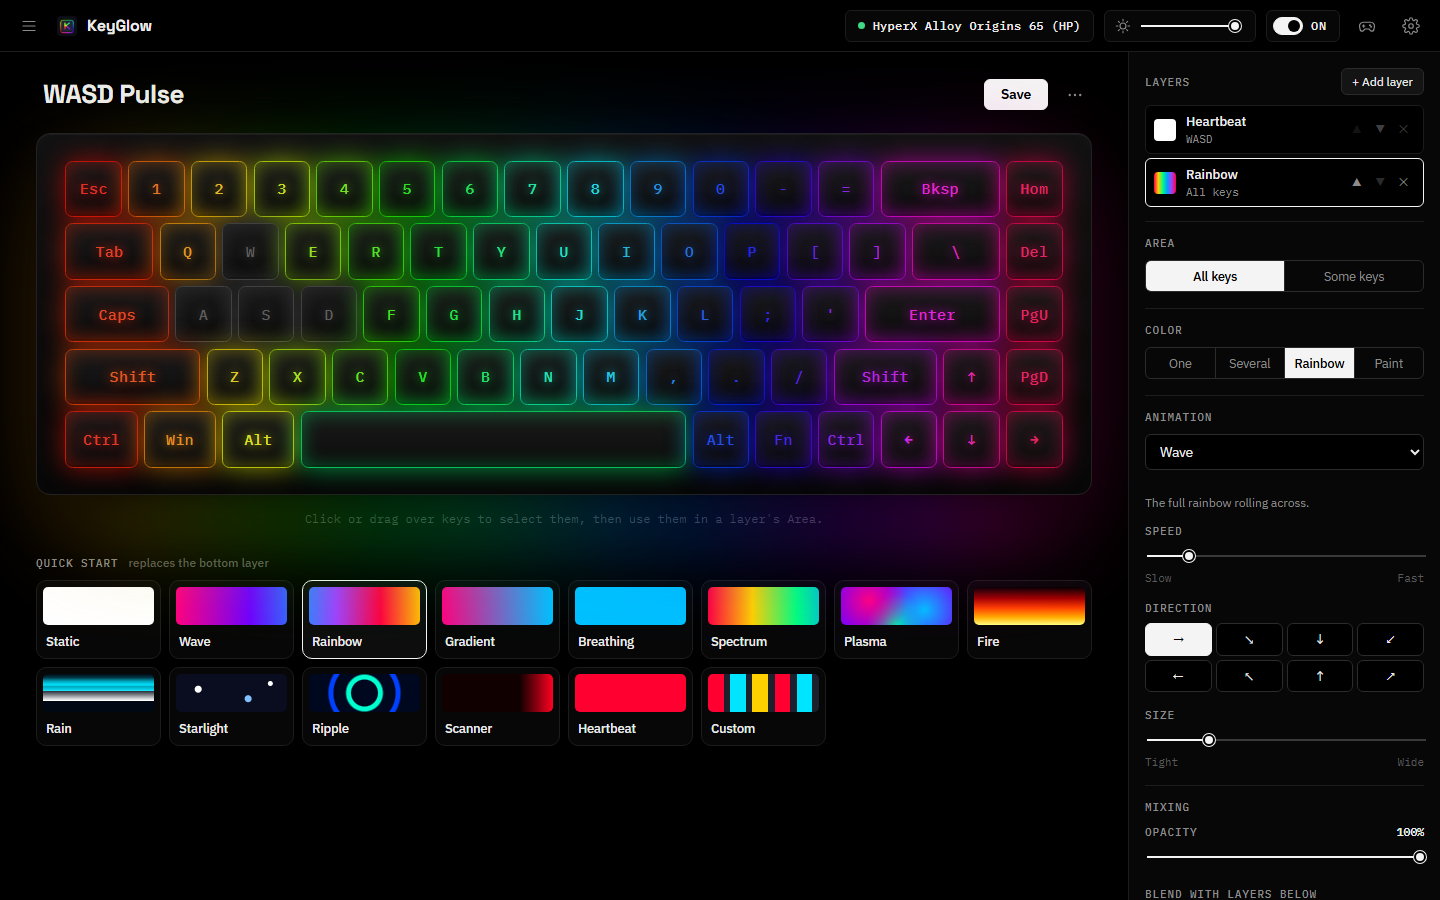
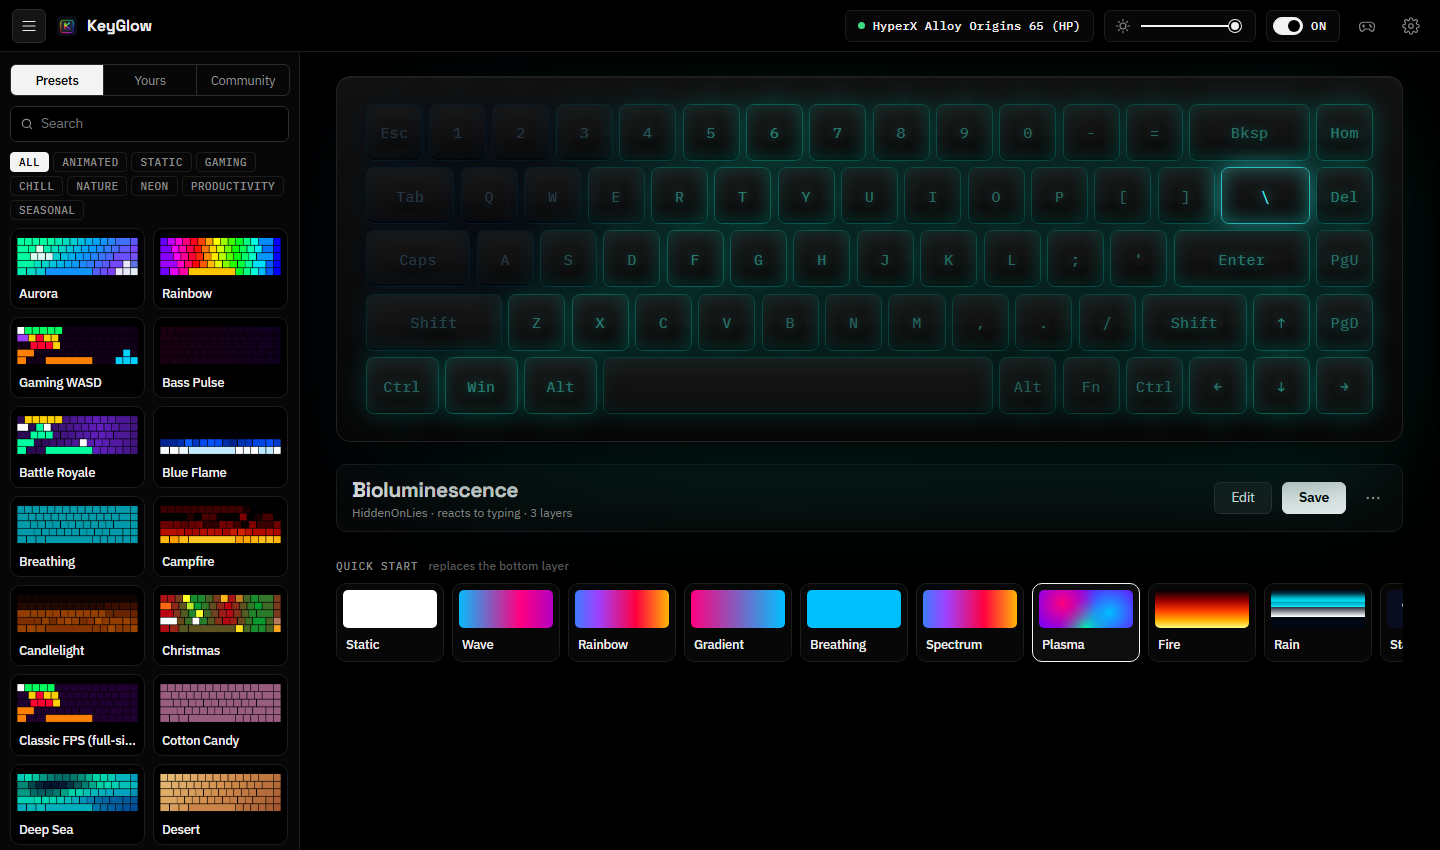
Version 1.0.0
- README for 1.0: features grouped (pick a look, make your own, your
  keyboard), a privacy and resources section, updated roadmap and a new
  screenshot of the current interface
- A new window opens on the profile the keyboard is playing (/api/active)
  instead of the last saved one, so opening it never changes the lights
- The profile line shows the author when its gallery isn't loaded yet

diff --git a/keyglow/app/static/app.js b/keyglow/app/static/app.js
@@ -562,8 +562,10 @@ function renderHead() {
 function profileMeta() {
   const all = [...S.lib.presets, ...S.lib.mine, ...(S.lib.community?.profiles || [])];
   const e = all.find((x) => x.id === S.sourceId);
-  const kind = !e ? "New profile" : e.kind === "preset" ? "Preset" : e.kind === "mine" ? "Your profile" : "Community";
-  const author = e?.kind === "community" && e.author ? e.author.split(" · ")[0] : null;
+  // not found (e.g. a community profile before the gallery has loaded): its author says enough
+  const kind = !e ? (S.profile.author ? null : "New profile")
+    : e.kind === "preset" ? "Preset" : e.kind === "mine" ? "Your profile" : "Community";
+  const author = (!e || e.kind === "community") && S.profile.author ? S.profile.author.split(" · ")[0] : null;
   const n = S.profile.layers.length;
   return [kind, author, hasReactive(S.profile) ? "reacts to typing" : null, `${n} layer${n > 1 ? "s" : ""}`]
     .filter(Boolean).join(" · ");
@@ -2119,9 +2121,12 @@ async function init() {
   await Promise.all([loadLibrary(), pollStatus()]);
   toggleLibrary(store.get("keyglow.libraryOpen", true));
   setEditing(store.get("keyglow.editing", false));
-  const start = S.settings.last_profile || S.lib.presets[0]?.data;
+  // a new window shows what the keyboard is playing now, so opening it never changes the lights
+  const active = (await api("/api/active").catch(() => ({}))).profile;
+  const start = active || S.settings.last_profile || S.lib.presets[0]?.data;
+  const all = [...S.lib.presets, ...S.lib.mine];
   loadProfile(start || { name: "My profile", layers: [newLayer("solid")] }, {
-    sourceId: S.lib.presets.find((p) => p.data?.name === start?.name)?.id ?? null,
+    sourceId: all.find((p) => p.data?.name === start?.name)?.id ?? null,
   });
   setInterval(pollStatus, 2000);
   checkUpdate();

diff --git a/tests/test_app.py b/tests/test_app.py
@@ -94,3 +94,8 @@ def test_ajustes_persisten(server):
     call(base, "/api/settings", {"brightness": 0.5, "desconocido": 1})
     saved = json.loads((tmp / "appdata" / "KeyGlow" / "settings.json").read_text(encoding="utf-8"))
     assert saved["brightness"] == 0.5 and "desconocido" not in saved
+
+
+def test_a_new_window_opens_on_the_active_profile(server):
+    base, _ = server
+    assert call(base, "/api/active")["profile"] is None              # nada en marcha todavía

diff --git a/keyglow/app/server.py b/keyglow/app/server.py
@@ -158,6 +158,8 @@ class Handler(BaseHTTPRequestHandler):
         try:
             if url.path == "/api/meta":
                 return self._json(app.meta())
+            if url.path == "/api/active":
+                return self._json({"profile": app.engine.active_profile})
             if url.path == "/api/status":
                 app.engine.maybe_reconnect()
                 return self._json({**app.engine.status(), "app": "keyglow"})

diff --git a/keyglow/app/engine.py b/keyglow/app/engine.py
@@ -449,6 +449,11 @@ class LightEngine:
                 self._connect()
             return self._kb.describe() if self._kb is not None else None
 
+    @property
+    def active_profile(self) -> dict | None:
+        """El perfil que se está pintando ahora (sin contar juegos ni vistas previas)."""
+        return self._profile
+
     def status(self) -> dict:
         with self._lock:
             return {

diff --git a/keyglow/__init__.py b/keyglow/__init__.py
@@ -1,3 +1,3 @@
 """KeyGlow: RGB keyboard lighting with profiles that move between keyboard models."""
 
-__version__ = "0.4.0"
+__version__ = "1.0.0"

diff --git a/README.md b/README.md
@@ -14,9 +14,10 @@ yours, and the other way round. Windows, powered by [OpenRGB](https://openrgb.or
 
 ![KeyGlow playing several presets](docs/images/demo.gif)
 
-> **Early preview.** KeyGlow works day to day on a **HyperX Alloy Origins 65** on Windows,
-> but it hasn't been tested on other keyboards yet and there is still plenty to do.
-> See [Status and roadmap](#status-and-roadmap). Feedback and issues are welcome.
+> **Version 1.0.** KeyGlow is used every day on a **HyperX Alloy Origins 65** on Windows 11.
+> Other keyboards work through OpenRGB but haven't been tested on real hardware yet, so a
+> [keyboard report](https://github.com/HiddenOnLies/KeyGlow/issues/new?template=keyboard_report.yml)
+> helps a lot.
 
 ## Why another RGB app?
 
@@ -53,31 +54,59 @@ Double-click `KeyGlow.exe`. The interface opens in its own window and an icon ap
 system tray with *Open KeyGlow*, *Lights off* and *Quit*. The lights keep running when you
 close the window.
 
-- **Quick start effects**: Static, Wave, Rainbow, Gradient, Breathing, Spectrum, Plasma, Fire,
-  Rain, Starlight, Ripple, Scanner, Heartbeat, Swirl, Comet, Bounce, Glitch and Custom (paint keys
-  with the mouse).
-- **Layer editor**: each layer is an *Area* (all or some keys) + a *Color* (one, several,
-  rainbow or hand-painted) + an *Animation*, with opacity and blend modes.
-- **Music**: spectrum bars, a bass pulse or a volume meter that follow what's playing on the PC
-  (it only listens while a profile uses it).
-- **On key press**: light up the key you press, a ripple or a burst from it, its row, or its row
-  and column. It uses a Windows
-  keyboard hook only while an active profile needs it, and only keeps which key was pressed and
-  when, in memory, for a few seconds.
+**Pick a look**
+
 - **Profiles**, always on the left: built-in presets, your own (`Documents\KeyGlow\Perfiles`)
-  and the [community gallery](https://github.com/HiddenOnLies/KeyGlow-profiles), which the app
-  keeps up to date by itself (add yours!). Hover a profile to preview it on the keyboard; click
-  to use it. *Edit* opens the layer editor.
-- **Shortcut lights**: hold Ctrl, Alt or Win and the keys of their shortcuts light up, for
-  Windows and apps like VS Code, browsers or Photoshop (off in games).
+  and the [community gallery](https://github.com/HiddenOnLies/KeyGlow-profiles), which KeyGlow
+  keeps up to date by itself. **Hover a profile to preview it** on the keyboard; click to use it.
+- **Quick start effects**: Static, Wave, Rainbow, Gradient, Breathing, Spectrum, Plasma, Fire,
+  Rain, Starlight, Ripple, Scanner, Heartbeat, Swirl, Comet, Bounce, Glitch, Music and Custom
+  (paint keys with the mouse).
 - **Game profiles** (controller icon): one profile per game while it is in focus, plus optional
   recommended profiles for ~40 popular games.
-- **Import / export** (⋯): KeyGlow and OpenRGB profiles, key color maps (OpenRGB, web, QMK names)
+
+**Make your own** (*Edit*)
+
+- **Layers**: each layer is an *Area* (all or some keys) + a *Color* (one, several, rainbow or
+  hand-painted) + an *Animation*, with opacity and blend modes.
+- **On key press**: light up the key you press, a ripple or a burst from it, its row, or its row
+  and column.
+- **Music**: spectrum bars, a bass pulse or a volume meter that follow what's playing on the PC.
+- **Shortcut lights**: hold Ctrl, Alt or Win (or combinations like Ctrl+Alt) and the rest of the
+  keyboard dims while the keys of their shortcuts light up, for Windows and apps like VS Code,
+  browsers, File Explorer, Photoshop or Discord. Each profile picks the effect (solid, pulse,
+  blink, sparkle, gradient, wave, rainbow or its own colors), colors, speed, dimming and how long
+  to hold the key. Off in games.
+- **Share to community gallery** (*⋯*): KeyGlow checks your profile and opens GitHub with it
+  ready to send.
+
+**Your keyboard**
+
+- **Any keyboard OpenRGB supports**: the layout is detected automatically, with exact layouts for
+  some models from the [KeyGlow workshop](https://github.com/HiddenOnLies/KeyGlow-layouts) and 9
+  standard layouts (ANSI/ISO, 60% to full size). See [compatibility](docs/compatibility.md).
+- **Layout editor** (*Settings → Edit this layout*): drag keys into place, resize them, add the
+  ones that are missing, and save it as your keyboard's exact layout (or export it for the workshop).
+- **Caps Lock light**: OpenRGB hides the keyboard's own Caps Lock highlight, so KeyGlow lights the
+  key while Caps Lock is on, on keyboards without an indicator of their own.
+- **Import / export** (*⋯*): KeyGlow and OpenRGB profiles, key color maps (OpenRGB, web, QMK names)
   and CSV. Drag a file onto the window to import it.
 - **Save to keyboard memory** on keyboards that support it, so no software has to stay open
   ([which ones](docs/compatibility.md#saving-to-the-keyboards-memory)).
-- **Any keyboard**: the layout comes from OpenRGB automatically; 9 standard layouts (ANSI/ISO,
-  60% to full size) are built in. See [compatibility](docs/compatibility.md).
+
+## Privacy and resources
+
+KeyGlow is made to run in the background all day, so it stays light (about 1% of one CPU core and
+60 MB of memory on the HyperX) and only does what a profile needs:
+
+- **Key presses** are read (with a Windows keyboard hook) only while the profile in use reacts to
+  typing, and only which key and when, in memory, for a few seconds. Shortcut lights don't use the
+  hook: they only ask Windows whether Ctrl, Alt, Shift or Win are held.
+- **The PC's sound** is listened to only while the profile in use has a music layer, and only a few
+  volume levels are kept, in memory; nothing is recorded.
+- **Internet**: once a day KeyGlow downloads the community gallery, the workshop layouts and the
+  list of KeyGlow releases from GitHub (each can be turned off in *Settings*). Nothing about you or
+  your keyboard is sent. KeyGlow never updates itself; it tells you when there's a new version.
 
 ## Command line
 
@@ -117,14 +146,14 @@ powershell -ExecutionPolicy Bypass -File tools\build_exe.ps1   # builds dist\Key
 
 ## Status and roadmap
 
-- **Only tested on one keyboard** (HyperX Alloy Origins 65, Windows 11). The automatic layout
-  should handle other OpenRGB keyboards, but reports from real hardware are the most useful
-  contribution right now.
-- **Windows only** for the desktop app (tray icon, keyboard hook, game detection). The library
-  and CLI are plain Python.
+- **Tested on one keyboard** (HyperX Alloy Origins 65, Windows 11). Reports from other keyboards
+  are the most useful contribution right now.
+- **Windows only** for the desktop app (tray icon, keyboard hook, game detection, sound). The
+  library and command line are plain Python.
 - **Some code comments are still in Spanish**; they will be translated.
-- Next: more profile sources ([candidates](docs/profile-sources.md#good-candidates)),
-  audio-reactive effects, mice and other devices.
+- Next: power saving (dim or turn off when idle, locked or asleep, and a night schedule),
+  Num Lock and Scroll Lock lights, CPU and timer indicators, other OpenRGB devices (mice, RAM,
+  fans), and packages for winget and Scoop.
 
 ## License
 

diff --git a/CHANGELOG.md b/CHANGELOG.md
@@ -1,6 +1,8 @@
 # Changelog
 
-## Unreleased
+## 1.0.0
+
+First stable version.
 
 - **Shortcut lights**: hold Ctrl, Alt or Win (or Ctrl+Shift, Win+Shift…) for a moment and the
   keyboard dims while the keys of their shortcuts light up: Windows shortcuts plus sets for VS
@@ -26,6 +28,8 @@
   and close by sliding, and the cards fade in when switching tabs. All of it is off with
   *reduce motion*.
 - `/api/peek` shows a profile on the keyboard for a moment without changing the active one.
+- Fix: opening a second KeyGlow window could switch the keyboard to the last saved profile; a
+  new window now shows what the keyboard is playing.
 - **Music effect**: follows the sound playing on the PC as spectrum bars (bass on the left), a
   pulse with the bass or a volume meter, with colors and sensitivity. It listens to the default
   output (WASAPI loopback, like OBS) only while the profile in use has a music layer, and keeps just
